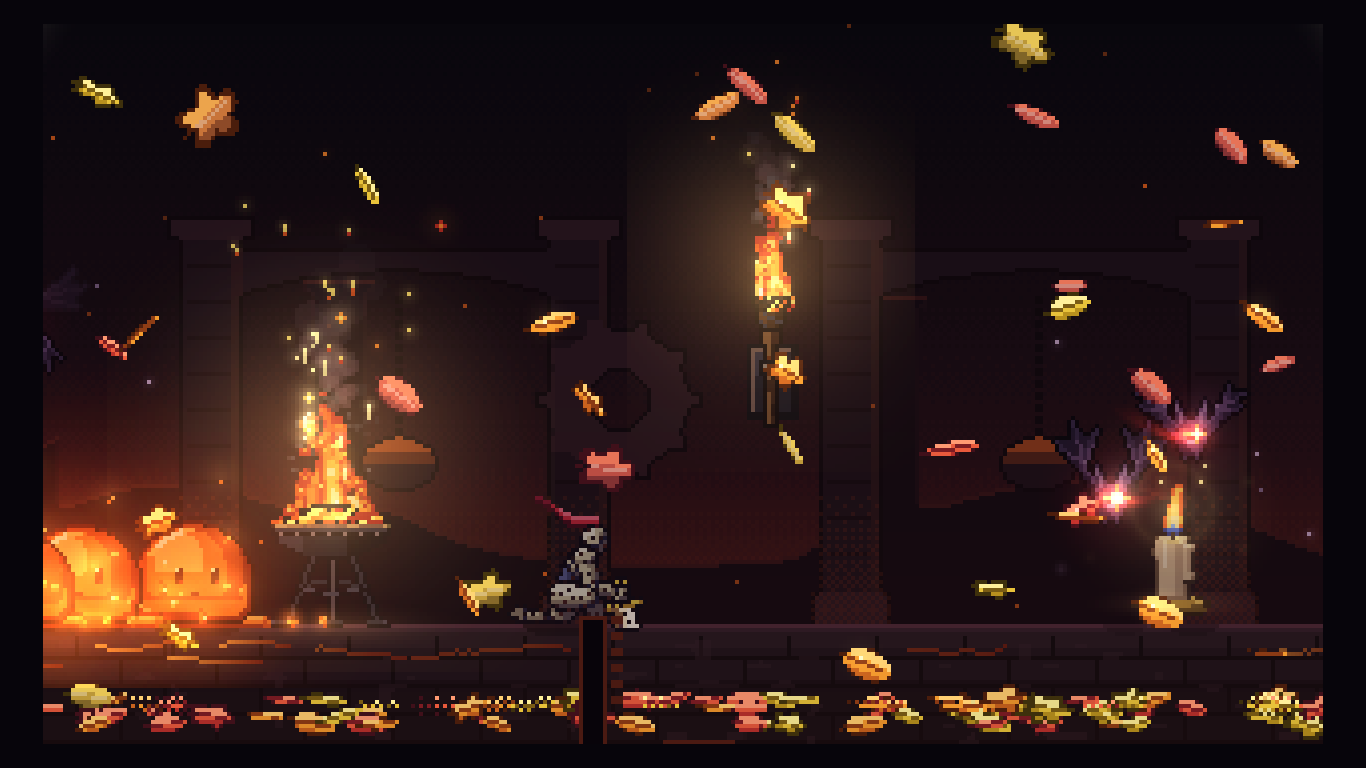
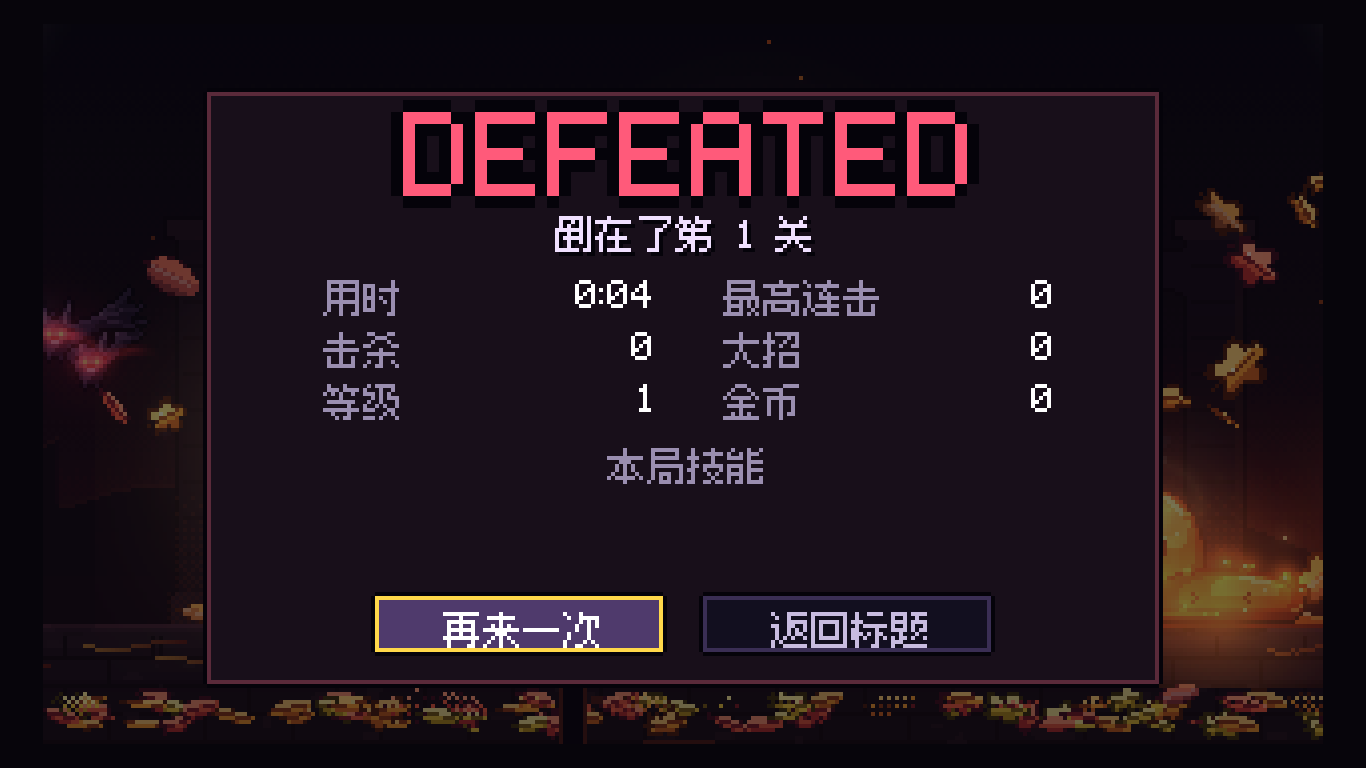
Present frames only when complete (drop desynchronized canvas)

diff --git a/src/engine/screen.js b/src/engine/screen.js
@@ -4,7 +4,8 @@
 import { W, H } from "../config.js";
 
 export const canvas = document.getElementById("game");
-export const ctx = canvas.getContext("2d", { alpha: false, desynchronized: true });
+// not desynchronized: the frame must only reach the screen once the HUD is drawn over the game
+export const ctx = canvas.getContext("2d", { alpha: false });
 canvas.width = W;
 canvas.height = H;
 ctx.imageSmoothingEnabled = false;
